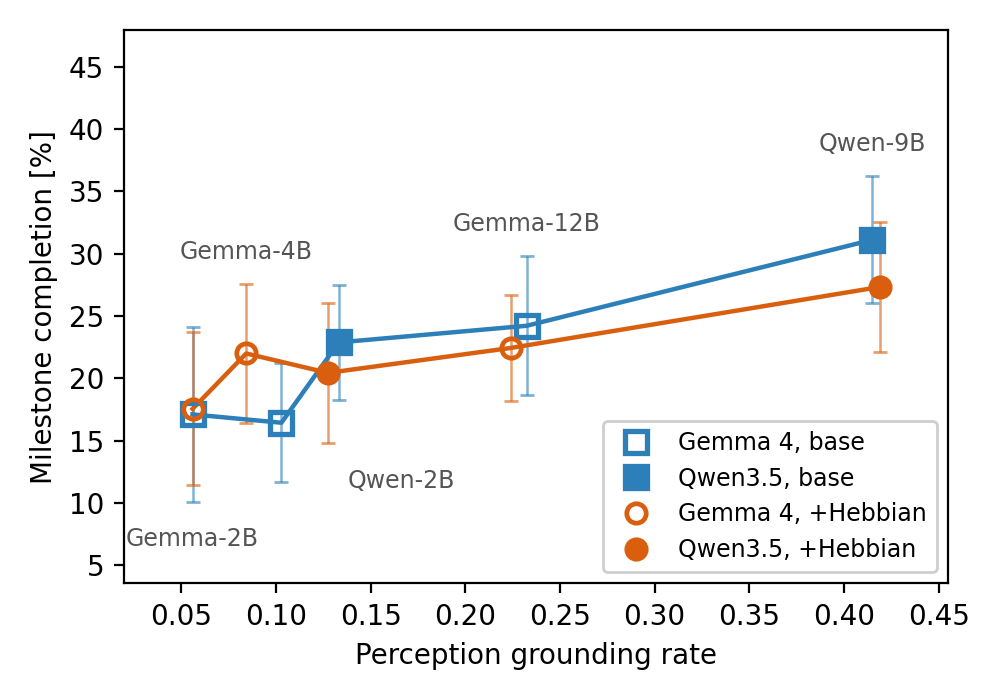
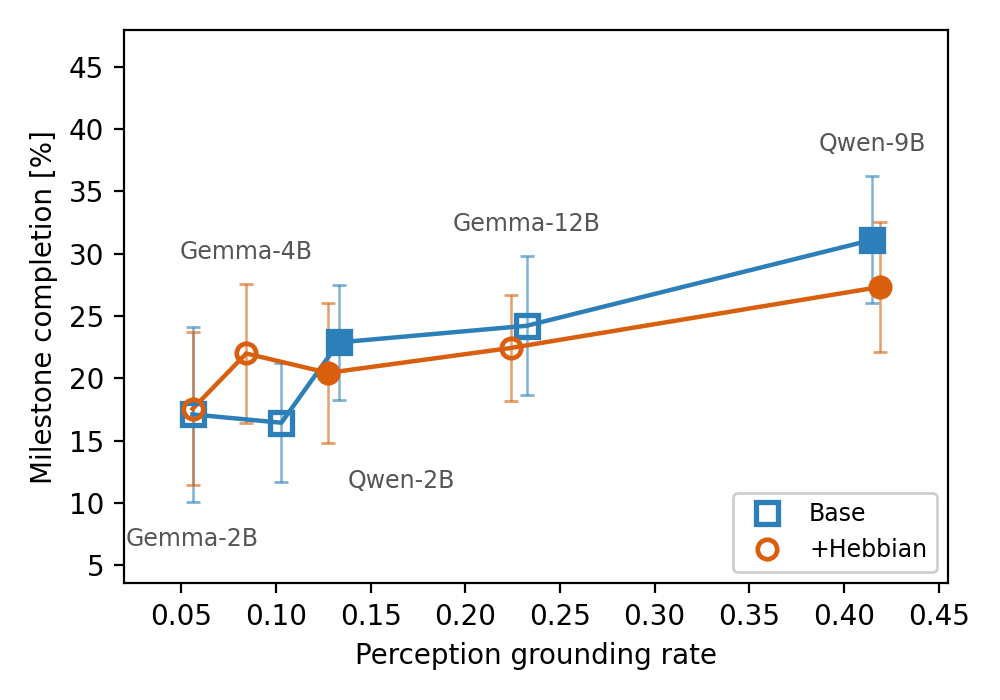
Paper pareto figures: two-entry arm legend (family on marker fill), --legend-loc; partner legend lower left

Changed region(s): [[0.589, 0.6, 0.961, 0.84]]

diff --git a/scripts/make_pareto_perception_fig.py b/scripts/make_pareto_perception_fig.py
@@ -74,7 +74,7 @@ def gather(data, beliefs, sizes, x_key):
 
 
 def draw(rows, out_png: Path, xlabel: str, errorbars: str = "none",
-         label_below=frozenset()):
+         label_below=frozenset(), legend_loc="lower right"):
     """errorbars: "none", "y" (milestone std over pooled episodes) or "xy"
     (also the grounding std over seeds). Thin bars in the arm colour behind
     the markers, no legend entry; labels clear the bar tops."""
@@ -106,8 +106,7 @@ def draw(rows, out_png: Path, xlabel: str, errorbars: str = "none",
             ax.plot([p[0] for p in fp], [p[1] for p in fp], color=st["color"],
                     ls="none", marker=st["marker"], ms=st["ms"],
                     mfc="none" if open_marker else st["color"],
-                    mec=st["color"], mew=st["mew"], zorder=3,
-                    label="{}, {}".format(FAMILY_LABEL[family], ARM_NAME[arm]))
+                    mec=st["color"], mew=st["mew"], zorder=3)
         all_y += [p[1] for p in pts]
 
     # Point labels: one per model above its higher arm; when a model sits
@@ -151,7 +150,16 @@ def draw(rows, out_png: Path, xlabel: str, errorbars: str = "none",
     ax.margins(x=0.10)
     ax.set_xlabel(xlabel)
     ax.set_ylabel(YLABEL)
-    ax.legend(loc="lower right", fontsize=8.5, framealpha=0.95)
+    # Two-entry legend in the social-interval figure's style: the arms only
+    # (open markers, as there). Family lives on the marker FILL (open Gemma,
+    # filled Qwen) and is stated in the caption -- a four-entry box was large
+    # enough to collide with the data on the partner axis.
+    from matplotlib.lines import Line2D
+    handles = [Line2D([], [], ls="none", color=ARM_STYLE[a]["color"],
+                      marker=ARM_STYLE[a]["marker"], ms=ARM_STYLE[a]["ms"],
+                      mfc="none", mew=ARM_STYLE[a]["mew"], label=ARM_STYLE[a]["label"])
+               for a in ("base", "hebbian")]
+    ax.legend(handles=handles, loc=legend_loc, fontsize=8.5, framealpha=0.95)
     fig.tight_layout()
     out_png.parent.mkdir(parents=True, exist_ok=True)
     fig.savefig(out_png, dpi=200)
@@ -190,6 +198,8 @@ def main():
     ap.add_argument("--sizes", default="e2b,e4b,qwen2b,12b,qwen9b")
     ap.add_argument("--x", choices=tuple(AXES), default="grounding",
                     help="x-axis: strict grounding (paper) or partner-location accuracy")
+    ap.add_argument("--legend-loc", default="lower right",
+                    help="matplotlib legend location (partner axis: lower left)")
     ap.add_argument("--errorbars", choices=("none", "y", "xy"), default="none",
                     help="draw +-1 std: y = milestones over pooled episodes, "
                          "xy = also grounding over seeds")
@@ -223,7 +233,8 @@ def main():
 
     png = args.out_dir / png_name
     draw(rows, png, xlabel, args.errorbars,
-         label_below=LABEL_BELOW if args.x == "grounding" else frozenset())
+         label_below=LABEL_BELOW if args.x == "grounding" else frozenset(),
+         legend_loc=args.legend_loc)
     if args.x == "grounding":
         tex = args.out_dir / "pareto_perception_rows.tex"
         tex.write_text(tex_rows(rows), encoding="utf-8")

diff --git a/.claude/skills/pareto-plots/SKILL.md b/.claude/skills/pareto-plots/SKILL.md
@@ -244,6 +244,11 @@ Qwen-9B (0.72) then FALLS for Gemma-4B/2B (0.80/0.83), the two weakest
 performers, because accuracy-over-claims rewards not committing.
 Robustness/appendix figure, not a replacement for the grounding axis;
 LABEL_BELOW applies only on the grounding axis.
+Legend = TWO arm entries only (Base blue open square / +Hebbian orange
+open circle, the social figure's style); family lives on marker FILL and
+must be stated in the caption (open Gemma / filled Qwen). A four-entry
+legend collided with the data on the partner axis. `--legend-loc`:
+lower right (grounding default) / lower left (partner).
 LABEL_BELOW hangs the leftmost model's label under its lower arm — the
 segment climbing to Gemma-4B crosses an above-label. Paper side: the new
 section is \input in results.tex before the RQ2 heading; tab:final_comparison
